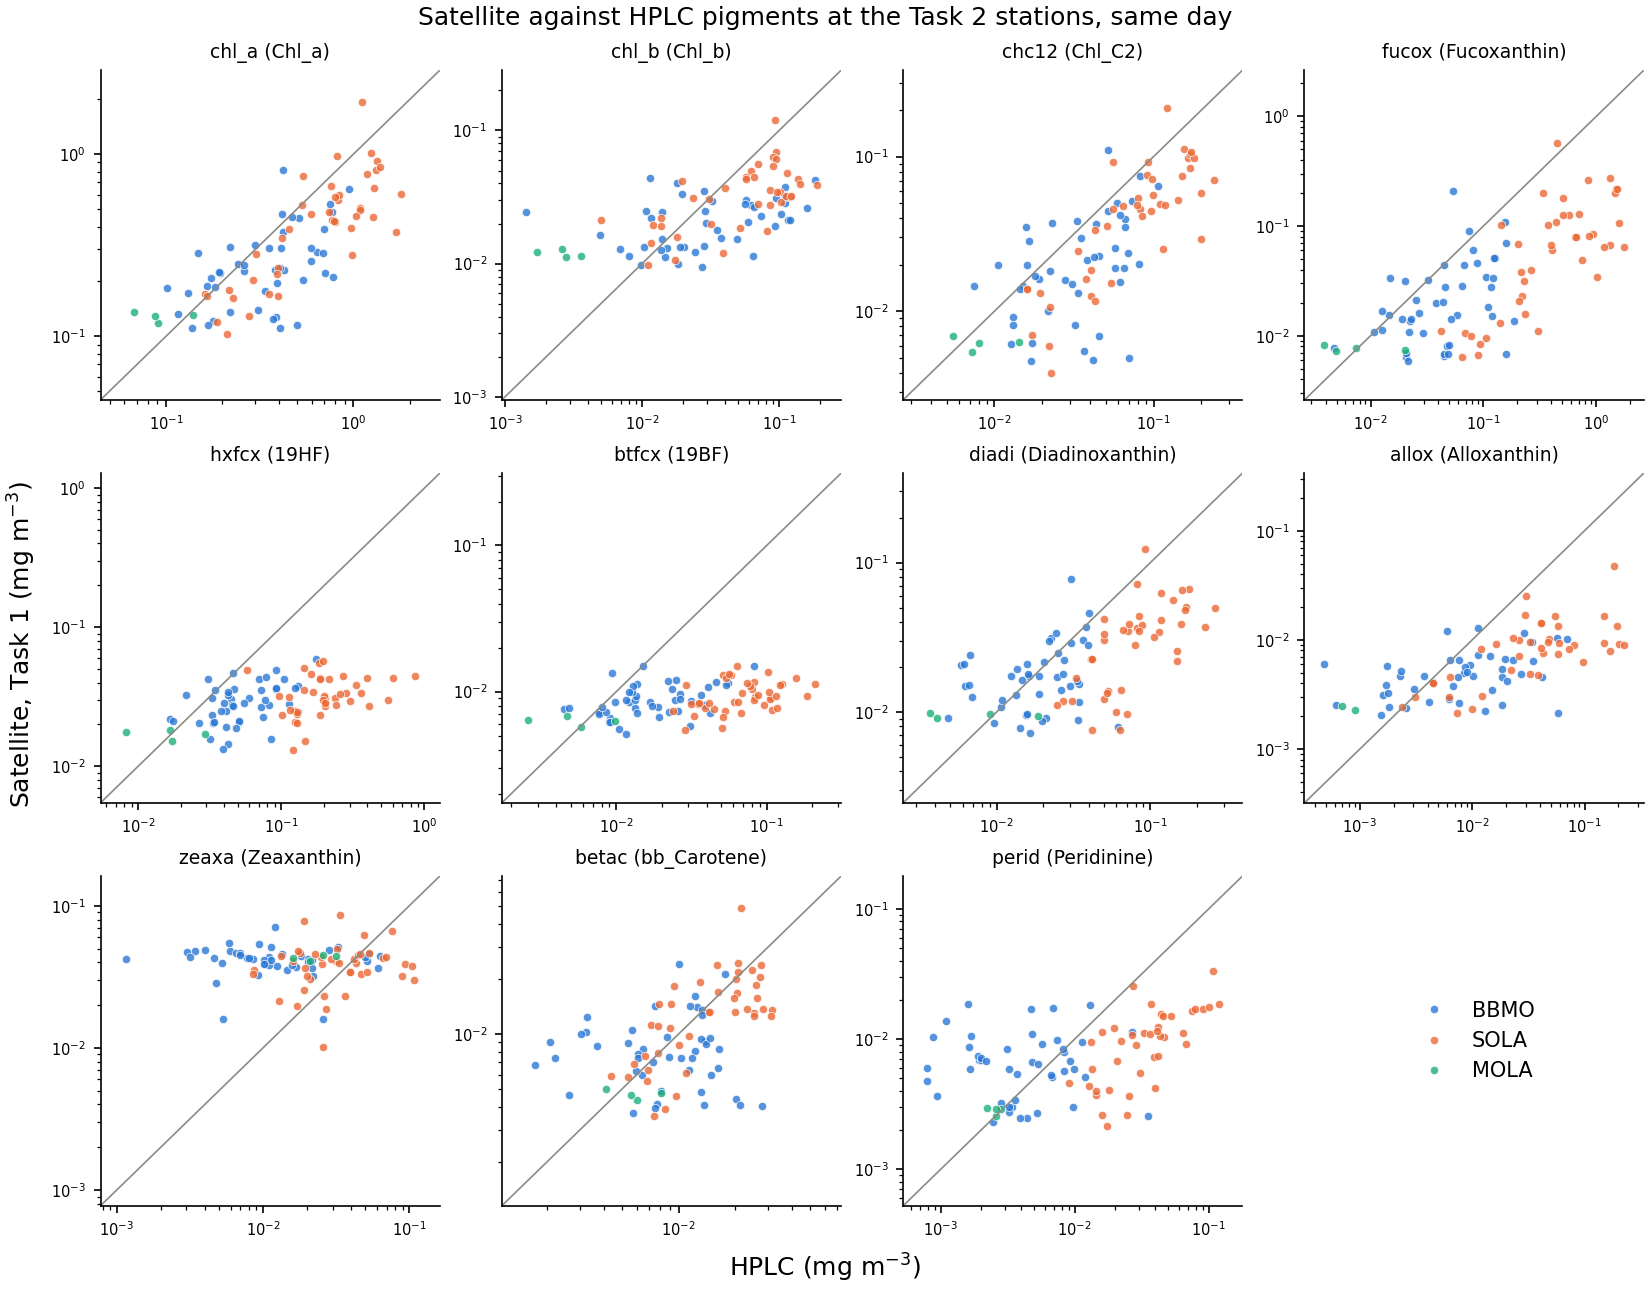
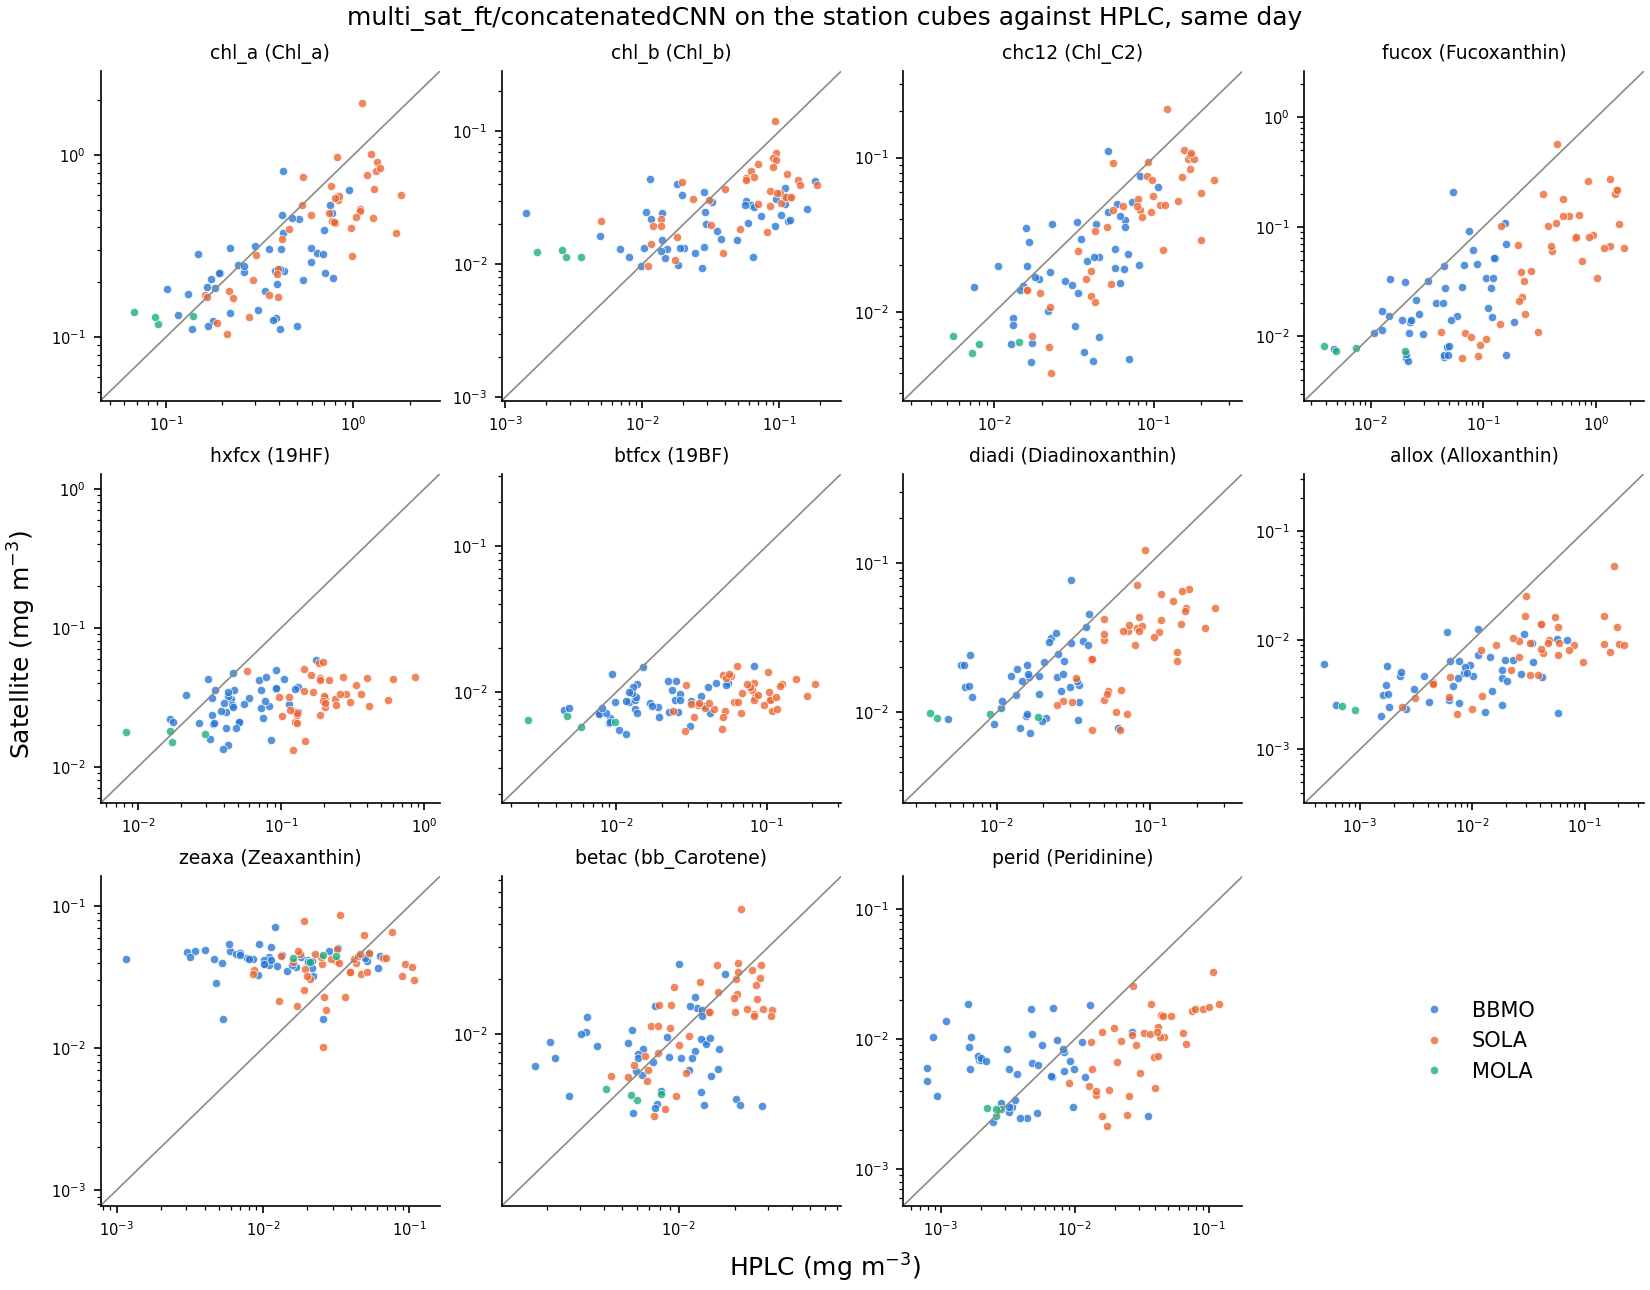
Compare the Task 1 models and matchups against HPLC

diff --git a/task1/scripts/hplc_matchups.py b/task1/scripts/hplc_matchups.py
@@ -1,0 +1,207 @@
+"""Satellite pigments of the Task 1 models against the HPLC pigments of the Task 2 samples.
+
+    python task1/scripts/hplc_matchups.py task1/configs/hplc_matchups.yaml
+
+The Task 2 samples with HPLC pigments (PETRIMED: SOLA, BBMO, MOLA; one row per station and date,
+written to <output_root>/samples.csv) are matched with satellite Rrs in several ways:
+- station_cubes: the cubes of station_matchups.py (Mediterranean 1 km product, the sampling day,
+  the 11 x 9 pixels around the station with a retrieval); the pigments are predicted per pixel,
+  then their median is taken;
+- one per product of the config, built with copernicus-matchup as the Task 1 satellite matchups
+  (see the config) under <output_root>/<product>, and averaged with the weights of Task 1 (exp of
+  minus the Manhattan distance to the centre, over pixels and days, skipping gaps).
+Every Task 1 model of the 5 multi-sensor bands predicts the pigments, compared with the HPLC ones
+with the metrics of Task 1 on ln(pigment) and the Pearson r: on all the samples of each matchup and
+on those shared by the matchups in `compare_on`. Writes <output_root>/scores.csv,
+task1/figures/hplc_matchups.png (median r per model and matchup) and
+task1/figures/hplc_check.png (each pigment, for the model and matchup of Task 4).
+"""
+from __future__ import annotations
+
+import argparse
+import copy
+import logging
+import os
+from pathlib import Path
+
+import numpy as np
+import pandas as pd
+import xarray as xr
+import yaml
+
+os.environ.setdefault("TF_CPP_MIN_LOG_LEVEL", "2")
+from copernicus_matchup import DataConfig, build_dataset  # noqa: E402
+from pigment_retrieval.predict.predict import Predictor, available_models  # noqa: E402
+
+DATA_DIR = Path("task2/PETRIMED/DATA")
+STATION_CUBES = Path("task1/data/station_matchups/datasets/optics.nc")
+FIGURE = Path("task1/figures/hplc_matchups.png")
+SCATTER = Path("task1/figures/hplc_check.png")
+TASK4_MODEL = "multi_sat_ft/concatenatedCNN"   # the model and matchup of the Task 4 record
+BANDS = {"RRS412": "412", "RRS443": "442", "RRS490": "490", "RRS555": "560", "RRS670": "673"}
+# Task 1 pigment: the same pigment in the HPLC tables (Chl_C2 is c2 only, Task 1 gives c1 + c2)
+PAIRS = {"chl_a": "Chl_a", "chl_b": "Chl_b", "chc12": "Chl_C2", "fucox": "Fucoxanthin", "hxfcx": "19HF",
+         "btfcx": "19BF", "diadi": "Diadinoxanthin", "allox": "Alloxanthin", "zeaxa": "Zeaxanthin",
+         "betac": "bb_Carotene", "perid": "Peridinine"}
+
+
+def write_samples(stations: dict, path: Path) -> pd.DataFrame:
+    """One row per station and date: the pigments are the same in every PETRIMED table and fraction."""
+    tables = [pd.read_csv(p, parse_dates=["Date"])[["ST", "Date", *PAIRS.values()]]
+              for p in sorted(DATA_DIR.glob("*pigments*.csv"))]
+    samples = pd.concat(tables).drop_duplicates(["ST", "Date"]).reset_index(drop=True)
+    samples.insert(0, "Id", [f"{st}_{date:%Y%m%d}" for st, date in zip(samples["ST"], samples["Date"])])
+    samples["lat"] = [float(stations[st][0]) for st in samples["ST"]]
+    samples["lon"] = [float(stations[st][1]) for st in samples["ST"]]
+    samples = samples.rename(columns={"Date": "time"})
+    path.parent.mkdir(parents=True, exist_ok=True)
+    samples.to_csv(path, index=False)
+    return samples.set_index("Id")
+
+
+def task1_weights(cube: xr.DataArray) -> xr.DataArray:
+    """Task 1's weights: exp(max distance - Manhattan distance to the centre) over lat, lon and time."""
+    shape = [cube.sizes[d] for d in ("lat", "lon", "time")]
+    distance = sum(np.abs(i - s // 2) for i, s in zip(np.indices(shape), shape))
+    return xr.DataArray(np.exp(distance.max() - distance), dims=("lat", "lon", "time"))
+
+
+def product_inputs(config: dict, root: Path) -> dict[str, pd.DataFrame]:
+    """ln(Rrs) per sample for each product, averaged as Task 1, with the bands named as Task 1 expects."""
+    inputs = {}
+    for product in config["products"]:
+        data = copy.deepcopy({key: config[key] for key in ("target", "matchup", "preprocess")})
+        data["target"]["path"] = str(root / "samples.csv")
+        data["products"] = [{**product, "preprocess": {"mask_kinds": ["cloud_mask"]}}]
+        run = root / product["name"]
+        build_dataset(DataConfig.from_dict(data), run)
+        cube = xr.load_dataarray(run / "datasets" / f"{product['feature_group']}.nc").sel(variable=list(BANDS))
+        averaged = cube.weighted(task1_weights(cube)).mean(("lat", "lon", "time"))
+        inputs[product["name"]] = averaged.to_pandas().rename(columns=BANDS).dropna()
+    return inputs
+
+
+def station_cube_inputs(samples: pd.DataFrame) -> xr.Dataset:
+    """ln(Rrs) of the pixels with a retrieval on the sampling day, in the station cubes of step 2."""
+    with xr.open_dataarray(STATION_CUBES) as cubes:
+        ids = samples.index.intersection(cubes["Id"].values)
+        day = cubes.sel(Id=ids).isel(time=cubes.sizes["time"] // 2, drop=True).reset_coords(drop=True).load()
+    day = day.where(day.sel(variable="cloud_mask", drop=True) == 0).sel(variable=list(BANDS))
+    x = day.to_dataset("variable").rename(BANDS)
+    # ln(Rrs) is negative: a 0 is a gap filled by the cubes
+    return x.where(x < 0)
+
+
+def scores(hplc: pd.DataFrame, predicted: pd.DataFrame) -> pd.DataFrame:
+    """Task 1 metrics on ln(pigment), Pearson r and number of samples, per pigment."""
+    from pigment_retrieval.metrics.metrics import Metrics
+    log_hplc = np.log(hplc.where(hplc > 0))
+    log_pred = np.log(predicted.where(predicted > 0))
+    table = Metrics(["R2", "MAPE", "MPE"]).compute_metrics_df(log_hplc, log_pred).T
+    table["r"] = [log_hplc[p].corr(log_pred[p]) for p in table.index]
+    table["n"] = [int((log_hplc[p].notnull() & log_pred[p].notnull()).sum()) for p in table.index]
+    table[["MAPE", "MPE"]] *= 100
+    return table[["n", "r", "R2", "MAPE", "MPE"]]
+
+
+def plot_scatter(hplc: pd.DataFrame, predicted: pd.DataFrame, stations: pd.Series, title: str, path: Path) -> None:
+    """Predicted against HPLC pigments, one panel per pigment, coloured by station."""
+    import matplotlib
+    matplotlib.use("Agg")
+    import matplotlib.pyplot as plt
+
+    colors = {"BBMO": "#2a78d6", "SOLA": "#eb6834", "MOLA": "#1baf7a"}
+    fig, axes = plt.subplots(3, 4, figsize=(11, 8.6), layout="constrained")
+    for ax, pigment in zip(axes.flat, PAIRS):
+        x, y = hplc[pigment].where(hplc[pigment] > 0), predicted[pigment]
+        for station, color in colors.items():
+            at = stations == station
+            ax.plot(x[at], y[at], "o", ms=4, color=color, alpha=0.8, mec="white", mew=0.4, label=station)
+        both = pd.concat([x, y]).dropna()
+        limits = [both.min() / 1.5, both.max() * 1.5]
+        ax.plot(limits, limits, color="#8a8a86", lw=0.8)
+        ax.set(xscale="log", yscale="log", xlim=limits, ylim=limits)
+        ax.set_title(f"{pigment} ({PAIRS[pigment]})", fontsize=9)
+        ax.tick_params(labelsize=7)
+        ax.spines[["top", "right"]].set_visible(False)
+    axes.flat[-1].axis("off")
+    axes.flat[-1].legend(*axes.flat[0].get_legend_handles_labels(), loc="center", frameon=False)
+    fig.supxlabel("HPLC (mg m$^{-3}$)")
+    fig.supylabel("Satellite (mg m$^{-3}$)")
+    fig.suptitle(title)
+    path.parent.mkdir(parents=True, exist_ok=True)
+    fig.savefig(path, dpi=150)
+    plt.close(fig)
+
+
+def plot(table: pd.DataFrame, path: Path) -> None:
+    """Median r over the pigments, per model and matchup, on the shared samples."""
+    import matplotlib
+    matplotlib.use("Agg")
+    import matplotlib.pyplot as plt
+
+    median = table.groupby(["model", "matchup"])["r"].median().unstack("matchup")
+    median = median.loc[median.mean(axis=1).sort_values().index]
+    colors = ["#2a78d6", "#eb6834", "#1baf7a"]
+    fig, ax = plt.subplots(figsize=(7.5, 0.45 * len(median) + 1.3), layout="constrained")
+    offsets = np.linspace(-0.2, 0.2, len(median.columns))
+    for (matchup, values), color, offset in zip(median.items(), colors, offsets):
+        ax.plot(values, np.arange(len(median)) + offset, "o", ms=7, color=color, mec="white", mew=1, label=matchup)
+    ax.set_yticks(range(len(median)), median.index, fontsize=8)
+    ax.set_xlabel(f"Median r over the 11 pigments, satellite against HPLC (ln), {table['n'].max()} samples")
+    ax.grid(axis="x", color="#e5e5e2", lw=0.6)
+    ax.spines[["top", "right"]].set_visible(False)
+    ax.legend(frameon=False, fontsize=8, loc="upper left")
+    path.parent.mkdir(parents=True, exist_ok=True)
+    fig.savefig(path, dpi=150)
+    plt.close(fig)
+
+
+def main(argv: list[str] | None = None) -> int:
+    parser = argparse.ArgumentParser(description=__doc__.split("\n\n")[0])
+    parser.add_argument("config", help="Data config with stations_config, output_root and compare_on.")
+    args = parser.parse_args(argv)
+    logging.basicConfig(level=logging.INFO, format="%(asctime)s | %(message)s")
+    logging.getLogger("copernicusmarine").setLevel(logging.WARNING)
+
+    config = yaml.safe_load(Path(args.config).read_text(encoding="utf-8"))
+    stations = yaml.safe_load(Path(config["stations_config"]).read_text(encoding="utf-8"))["stations"]
+    root = Path(config["output_root"])
+    samples = write_samples(stations, root / "samples.csv")
+    hplc = samples[list(PAIRS.values())].set_axis(list(PAIRS), axis=1)
+    inputs = product_inputs(config, root)
+    cubes = station_cube_inputs(samples)
+
+    rows = []
+    models = [name for name, (exp, _) in available_models().items() if exp["INP_VARS"] == list(BANDS.values())]
+    for name in models:
+        predictor = Predictor(name)
+        # Loading a model disables all logging up to WARNING (pigment_retrieval keras_models)
+        logging.disable(logging.NOTSET)
+        predicted = {"station_cubes": predictor.predict(cubes, logged=True)[list(PAIRS)]
+                     .median(["lat", "lon"]).to_dataframe()[list(PAIRS)].dropna()}
+        predicted.update({m: predictor.predict(x, logged=True)[list(PAIRS)] for m, x in inputs.items()})
+        if name == TASK4_MODEL:
+            at = predicted["station_cubes"].index
+            plot_scatter(hplc.loc[at], predicted["station_cubes"], samples.loc[at, "ST"],
+                         f"{TASK4_MODEL} on the station cubes against HPLC, same day", SCATTER)
+        shared = samples.index
+        for matchup in config["compare_on"]:
+            shared = shared.intersection(predicted[matchup].index)
+        for matchup, values in predicted.items():
+            rows.append(scores(hplc.loc[values.index], values).assign(model=name, matchup=matchup, samples="all"))
+            if matchup in config["compare_on"]:
+                rows.append(scores(hplc.loc[shared], values.loc[shared])
+                            .assign(model=name, matchup=matchup, samples="shared"))
+        print(f"{name}: {', '.join(f'{m} {len(v)}' for m, v in predicted.items())} samples, {len(shared)} shared")
+    table = pd.concat(rows).rename_axis("pigment").reset_index()
+    table.to_csv(root / "scores.csv", index=False, float_format="%.3f")
+    plot(table.query("samples == 'shared'"), FIGURE)
+    summary = table.groupby(["samples", "matchup", "model"])[["n", "r", "MAPE", "MPE"]].median()
+    print(summary.round(2).to_string())
+    print(f"{root / 'scores.csv'}, {FIGURE}, {SCATTER}")
+    return 0
+
+
+if __name__ == "__main__":
+    raise SystemExit(main())
